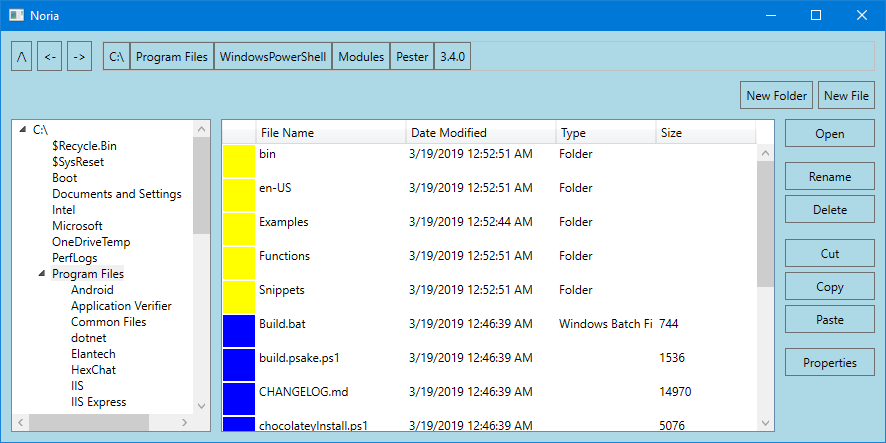
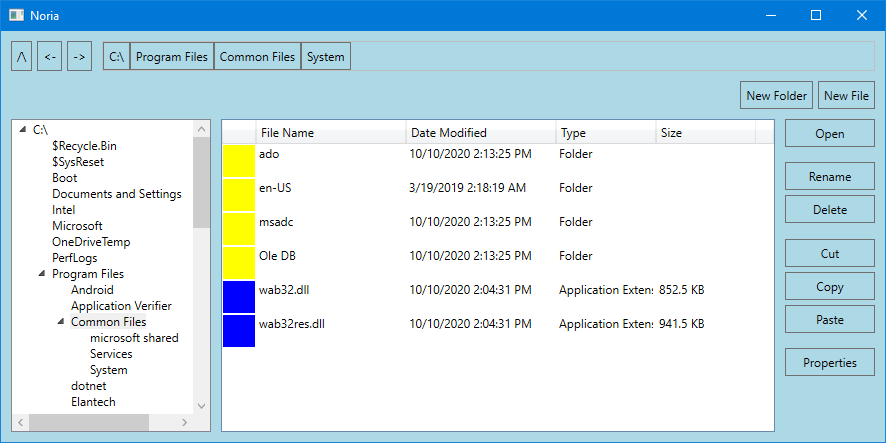
-

diff --git a/Noria/UI/MainWindow.xaml b/Noria/UI/MainWindow.xaml
@@ -106,6 +106,7 @@
                             <EventSetter Event="Click" Handler="dgrdFolderView_ColumnHeader_Click"/>
                         </Style>
                         <localUI:FileTypeToIconConverter x:Key="foiConverter"/>
+                        <localUI:FileSizeInBytesToProperUnitConverter x:Key="fileSizeConverter"/>
                     </DataGrid.Resources>
                     <DataGrid.Columns>
                         <DataGridTemplateColumn Header="" IsReadOnly="True">
@@ -122,7 +123,7 @@
                                             IsReadOnly="True" Width="150"/>
                         <DataGridTextColumn Header="Type" Binding="{Binding FileType}"
                                             IsReadOnly="True" Width="100"/>
-                        <DataGridTextColumn Header="Size" Binding="{Binding SizeInBytes}" 
+                        <DataGridTextColumn Header="Size" Binding="{Binding Path=SizeInBytes, Converter={StaticResource fileSizeConverter}}" 
                                             IsReadOnly="True" Width="100"/>
                     </DataGrid.Columns>
                 </DataGrid>

diff --git a/Noria/App.xaml b/Noria/App.xaml
@@ -2,7 +2,7 @@
              xmlns="http://schemas.microsoft.com/winfx/2006/xaml/presentation"
              xmlns:x="http://schemas.microsoft.com/winfx/2006/xaml"
              xmlns:local="clr-namespace:Noria"
-             StartupUri="Noria.UI\MainWindow.xaml">
+             StartupUri="UI\MainWindow.xaml">
     <Application.Resources>
         <ResourceDictionary Source="Themes\Generic.xaml"/>
     </Application.Resources>

diff --git a/Noria/UI/FileSizeInBytesToProperUnitConverter.cs b/Noria/UI/FileSizeInBytesToProperUnitConverter.cs
@@ -1,0 +1,51 @@
+using System;
+using System.Collections.Generic;
+using System.Globalization;
+using System.Linq;
+using System.Text;
+using System.Threading.Tasks;
+using System.Windows.Data;
+using System.Windows.Documents;
+
+namespace Noria.UI
+{
+    class FileSizeInBytesToProperUnitConverter : IValueConverter
+    {
+        public object Convert(object value, Type targetType, object parameter, CultureInfo culture)
+        {
+            int maxDecimalDigitsCount = parameter != null ? (int)parameter : 2;
+            
+            if (value == null)
+                return null;
+
+            double sizeInBytes = (long)value;
+            double sizeInKillobytes = Math.Round(sizeInBytes / 1024, 
+                maxDecimalDigitsCount);
+            double sizeInMegabytes = Math.Round(sizeInKillobytes / 1024,
+                maxDecimalDigitsCount);
+            double sizeInGigabytes = Math.Round(sizeInMegabytes / 1024,
+                maxDecimalDigitsCount);
+            double sizeInTerabytes = Math.Round(sizeInGigabytes / 1024,
+                maxDecimalDigitsCount);
+
+            if (sizeInTerabytes >= 1)
+                return $"{sizeInTerabytes} TB";
+
+            if (sizeInGigabytes >= 1)
+                return $"{sizeInGigabytes} GB";
+           
+            if (sizeInMegabytes >= 1)
+                return $"{sizeInMegabytes} MB";
+
+            if (sizeInKillobytes >= 1)
+                return $"{sizeInKillobytes} KB";
+
+            return $"{sizeInBytes} bytes";
+        }
+
+        public object ConvertBack(object value, Type targetType, object parameter, CultureInfo culture)
+        {
+            throw new NotImplementedException();
+        }
+    }
+}
